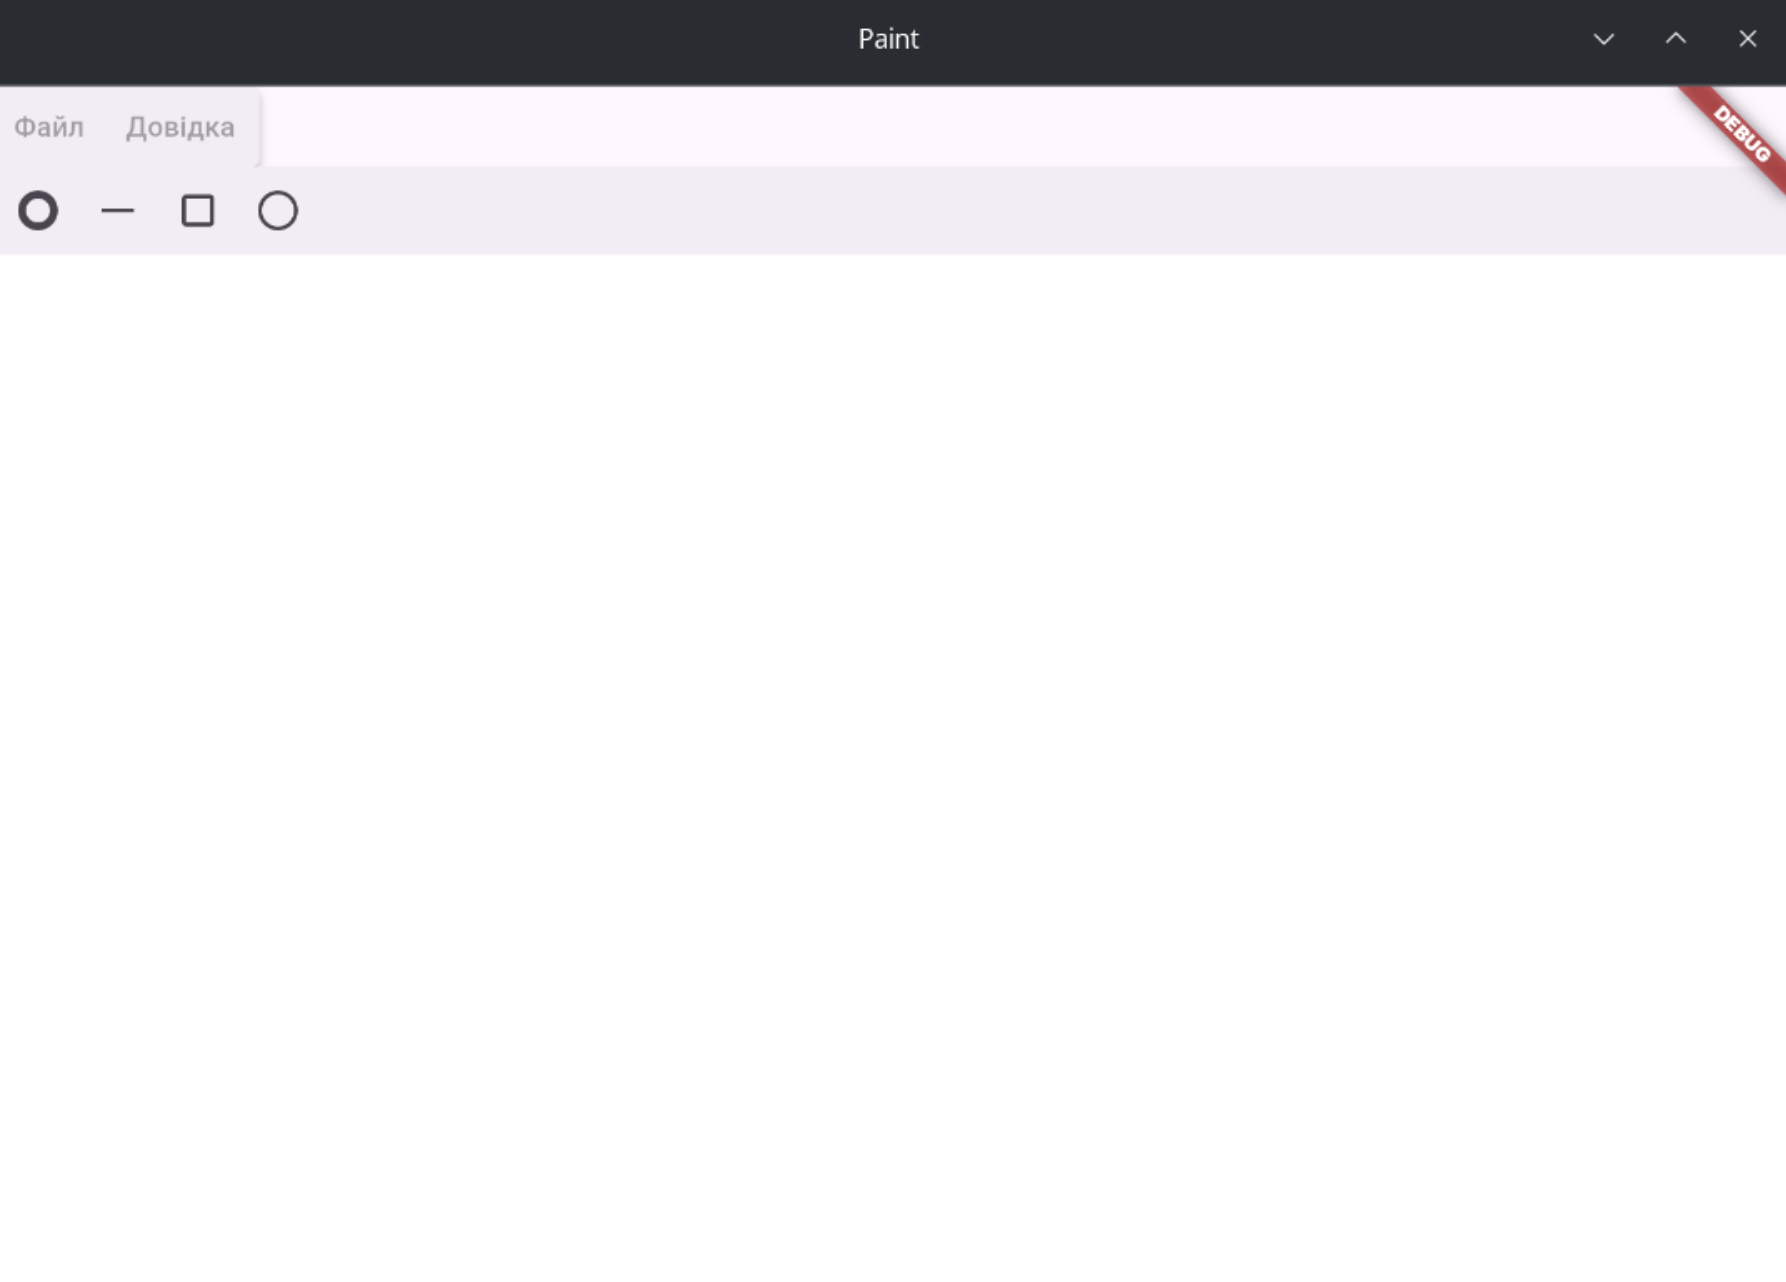
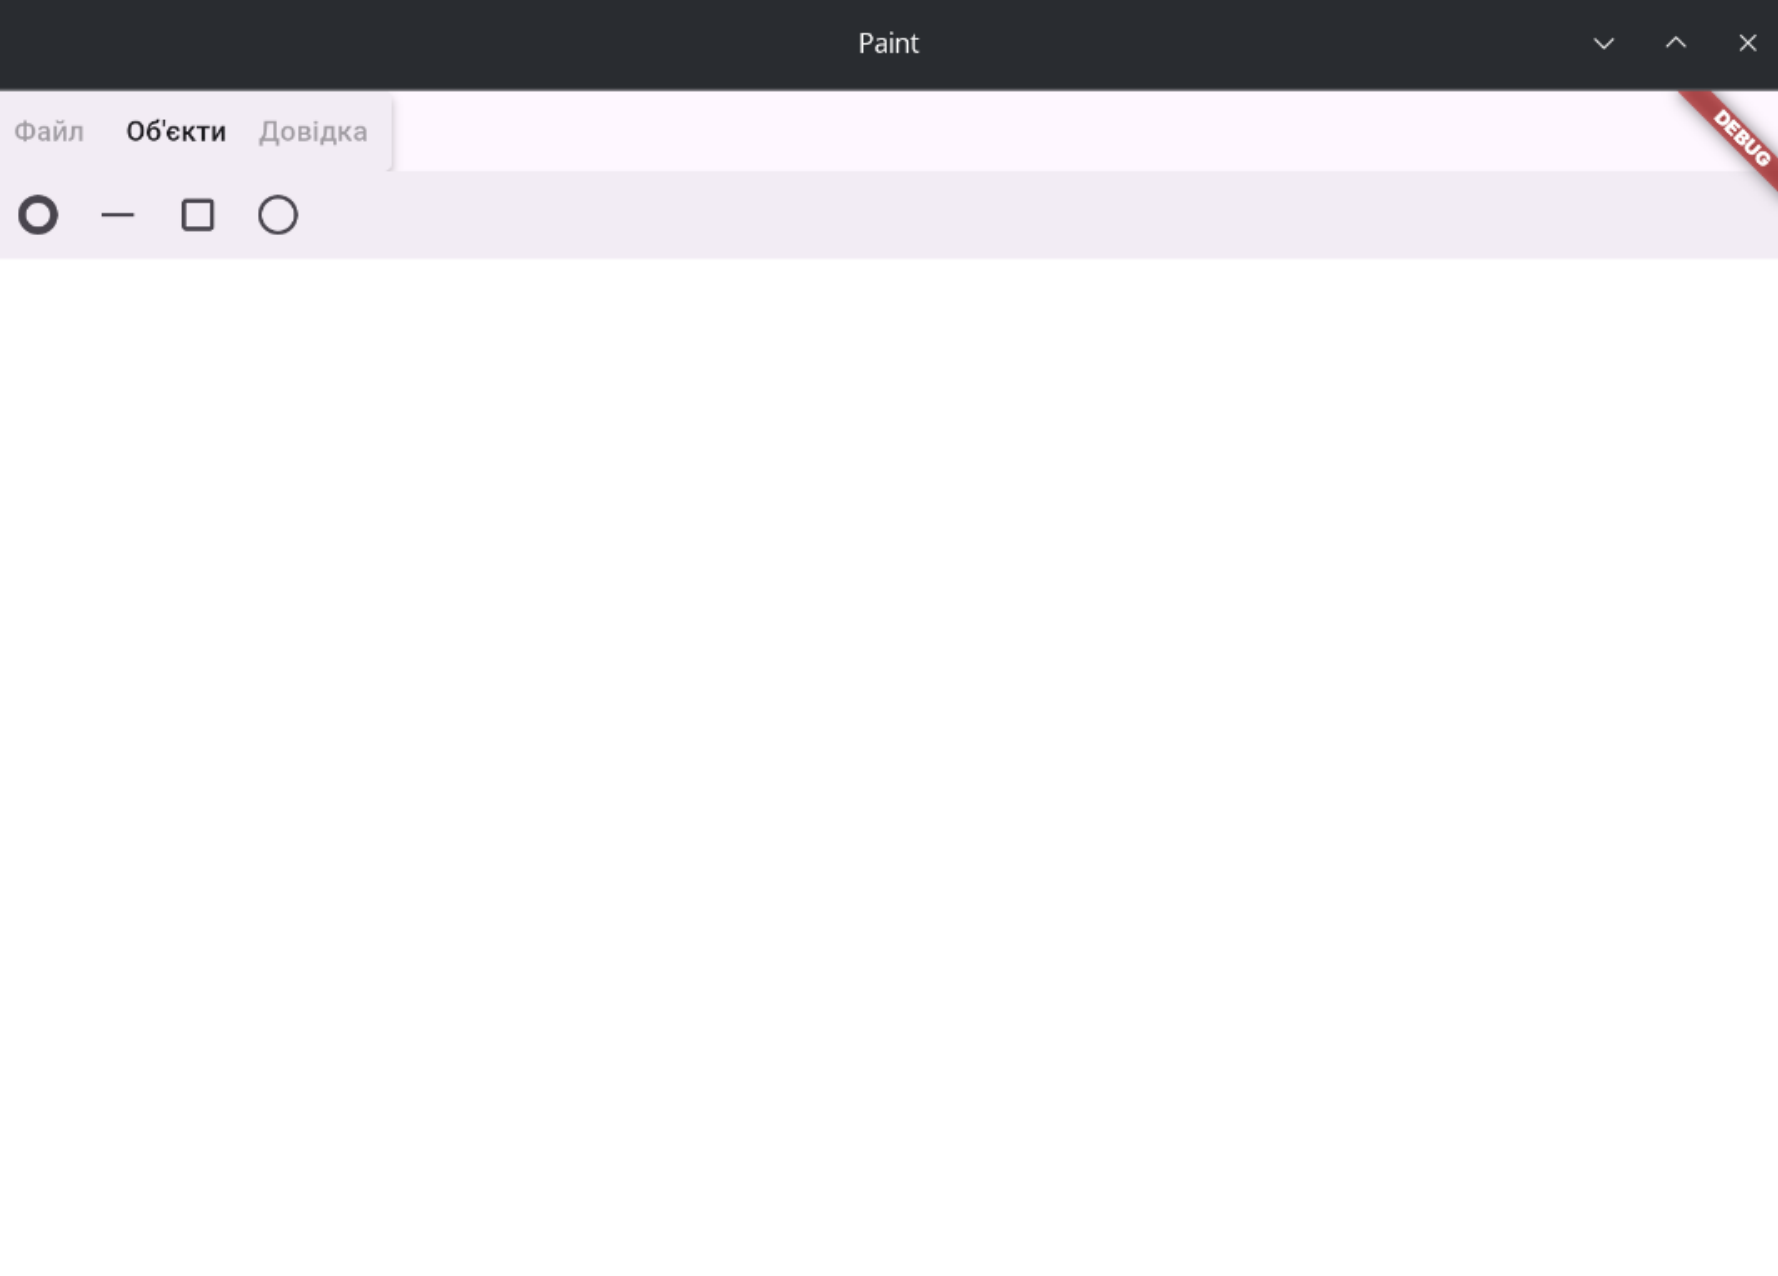
feat(menu): restore Objects submenu

Changed region(s): [[0.0, 0.0, 1.0, 0.1528], [0.0619, 0.1528, 0.1856, 0.1834], [0.0, 0.1528, 0.0309, 0.1834]]

diff --git a/lib/editor/editor_menu.dart b/lib/editor/editor_menu.dart
@@ -1,7 +1,15 @@
 import 'package:flutter/material.dart';
+import 'package:paint/editor/shape/shape_type.dart';
 
 class EditorMenu extends StatelessWidget {
-  const EditorMenu({super.key});
+  const EditorMenu({
+    super.key,
+    required this.selectedTool,
+    required this.onToolSelected,
+  });
+
+  final ShapeType? selectedTool;
+  final ValueChanged<ShapeType?> onToolSelected;
 
   @override
   Widget build(BuildContext context) {
@@ -10,6 +18,17 @@ class EditorMenu extends StatelessWidget {
         SubmenuButton(
           menuChildren: const [],
           child: const Text('Файл'),
+        ),
+        SubmenuButton(
+          menuChildren: [
+            for (final ShapeType tool in ShapeType.values)
+              CheckboxMenuButton(
+                value: selectedTool == tool,
+                onChanged: (bool? selected) => onToolSelected(selected == true ? tool : null),
+                child: Text(tool.label),
+              ),
+          ],
+          child: const Text('Об\'єкти'),
         ),
         SubmenuButton(
           menuChildren: const [],

diff --git a/lib/editor/editor_page.dart b/lib/editor/editor_page.dart
@@ -42,7 +42,7 @@ class _EditorPageState extends State<EditorPage> {
         children: [
           Align(
             alignment: AlignmentDirectional.centerStart,
-            child: const EditorMenu(),
+            child: EditorMenu(selectedTool: selectedTool, onToolSelected: _selectTool),
           ),
           EditorToolbar(selectedTool: selectedTool, onToolSelected: _selectTool),
           Expanded(child: PaintCanvas(selectedTool: selectedTool)),
